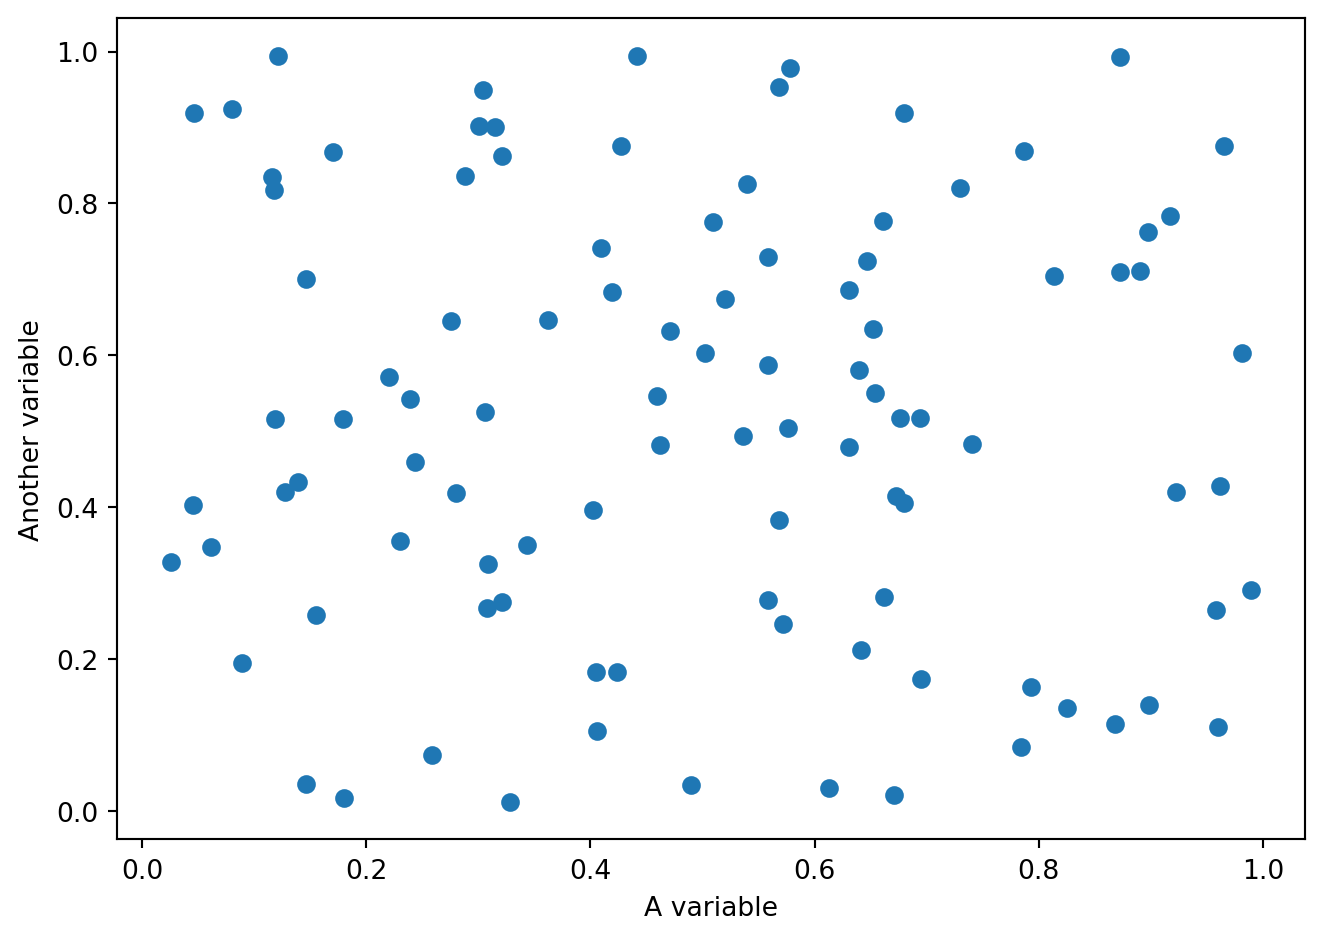
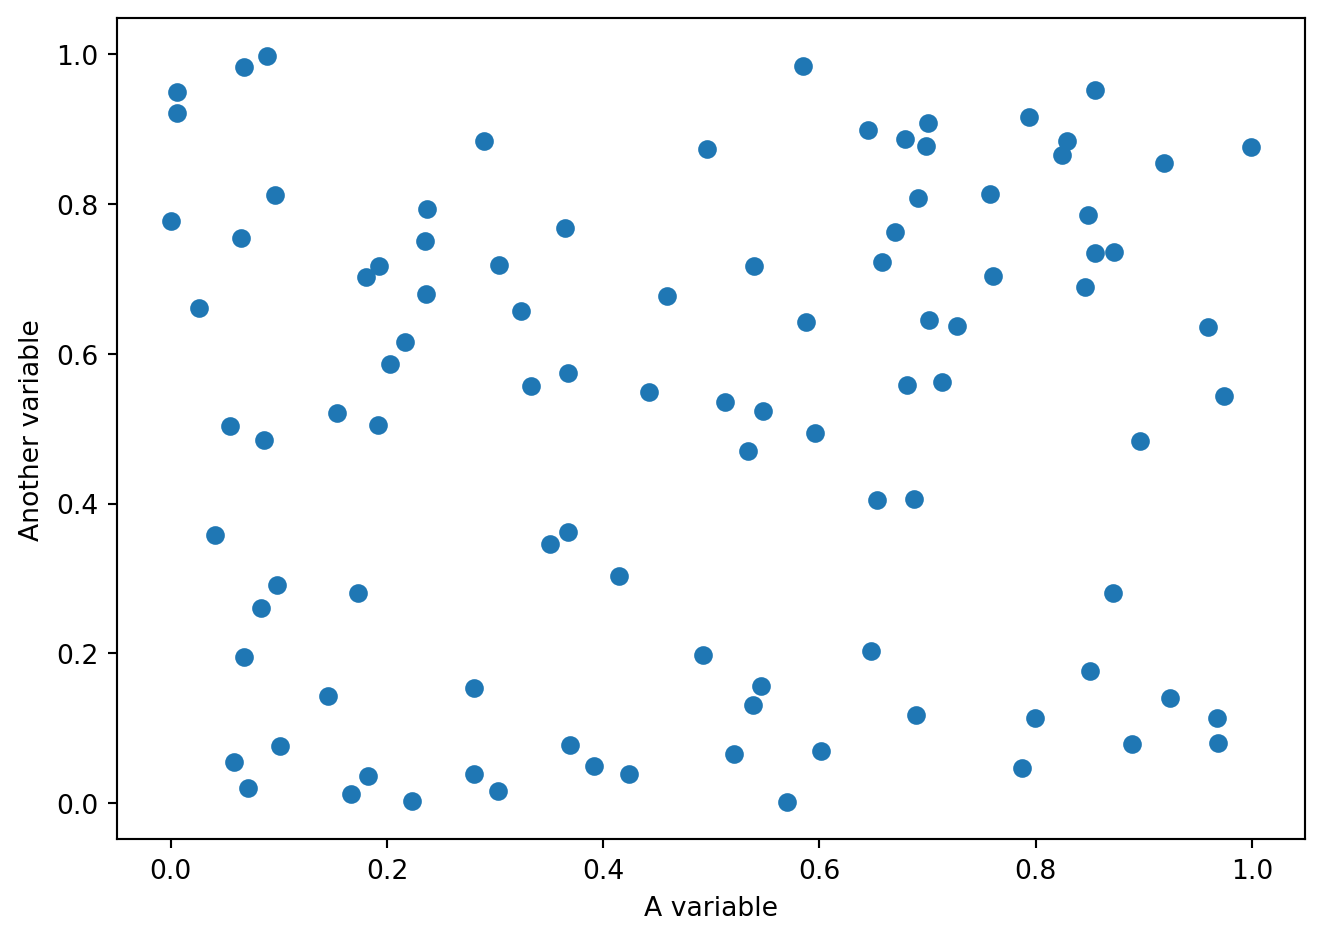
polish web interface

diff --git a/docs/experimental/Example_python.html b/docs/experimental/Example_python.html
@@ -7,7 +7,7 @@
 <meta name="viewport" content="width=device-width, initial-scale=1.0, user-scalable=yes">
 
 
-<title>Experimental notebook</title>
+<title>Experimental notebook – The Virtual Ecosystem data science repository</title>
 <style>
 /* Default styles provided by pandoc.
 ** See https://pandoc.org/MANUAL.html#variables-for-html for config info.
@@ -20,7 +20,7 @@ div.hanging-indent{margin-left: 1.5em; text-indent: -1.5em;}
 ul.task-list{list-style: none;}
 ul.task-list li input[type="checkbox"] {
   width: 0.8em;
-  margin: 0 0.8em 0.2em -1em; /* quarto-specific, see https://github.com/quarto-dev/quarto-cli/issues/4556 */
+  margin: 0 0.8em 0.2em -1em; /* quarto-specific, see https://github.com/quarto-dev/quarto-cli/issues/4556 */ 
   vertical-align: middle;
 }
 /* CSS for syntax highlighting */
@@ -62,6 +62,7 @@ pre > code.sourceCode > span > a:first-child::before { text-decoration: underlin
 
 
 <script src="../site_libs/quarto-nav/quarto-nav.js"></script>
+<script src="../site_libs/quarto-nav/headroom.min.js"></script>
 <script src="../site_libs/clipboard/clipboard.min.js"></script>
 <script src="../site_libs/quarto-search/autocomplete.umd.js"></script>
 <script src="../site_libs/quarto-search/fuse.min.js"></script>
@@ -76,13 +77,13 @@ pre > code.sourceCode > span > a:first-child::before { text-decoration: underlin
 <link href="../site_libs/quarto-html/quarto-syntax-highlighting-7f8f88aac4f3542376d5c11b86a4c14d.css" rel="stylesheet" id="quarto-text-highlighting-styles">
 <script src="../site_libs/bootstrap/bootstrap.min.js"></script>
 <link href="../site_libs/bootstrap/bootstrap-icons.css" rel="stylesheet">
-<link href="../site_libs/bootstrap/bootstrap-ece42c8223ec2bf36298a08f122c9a68.min.css" rel="stylesheet" append-hash="true" id="quarto-bootstrap" data-mode="light">
+<link href="../site_libs/bootstrap/bootstrap-ff38ca5759cea8d2b4e40dc1c167d4da.min.css" rel="stylesheet" append-hash="true" id="quarto-bootstrap" data-mode="light">
 <script id="quarto-search-options" type="application/json">{
-  "location": "sidebar",
+  "location": "navbar",
   "copy-button": false,
   "collapse-after": 3,
-  "panel-placement": "start",
-  "type": "textbox",
+  "panel-placement": "end",
+  "type": "overlay",
   "limit": 50,
   "keyboard-shortcut": [
     "f",
@@ -114,14 +115,54 @@ pre > code.sourceCode > span > a:first-child::before { text-decoration: underlin
 
 </head>
 
-<body class="fullcontent quarto-light">
+<body class="nav-fixed fullcontent quarto-light">
 
 <div id="quarto-search-results"></div>
+  <header id="quarto-header" class="headroom fixed-top">
+    <nav class="navbar navbar-expand-lg " data-bs-theme="dark">
+      <div class="navbar-container container-fluid">
+      <div class="navbar-brand-container mx-auto">
+    <a class="navbar-brand" href="../index.html">
+    <span class="navbar-title">The Virtual Ecosystem data science repository</span>
+    </a>
+  </div>
+            <div id="quarto-search" class="" title="Search"></div>
+          <button class="navbar-toggler" type="button" data-bs-toggle="collapse" data-bs-target="#navbarCollapse" aria-controls="navbarCollapse" role="menu" aria-expanded="false" aria-label="Toggle navigation" onclick="if (window.quartoToggleHeadroom) { window.quartoToggleHeadroom(); }">
+  <span class="navbar-toggler-icon"></span>
+</button>
+          <div class="collapse navbar-collapse" id="navbarCollapse">
+            <ul class="navbar-nav navbar-nav-scroll me-auto">
+  <li class="nav-item">
+    <a class="nav-link" href="../index.md"> 
+<span class="menu-text">Home</span></a>
+  </li>  
+</ul>
+          </div> <!-- /navcollapse -->
+            <div class="quarto-navbar-tools">
+    <div class="dropdown">
+      <a href="" title="" id="quarto-navigation-tool-dropdown-0" class="quarto-navigation-tool dropdown-toggle px-1" data-bs-toggle="dropdown" aria-expanded="false" role="link" aria-label=""><i class="bi bi-github"></i></a>
+      <ul class="dropdown-menu" aria-labelledby="quarto-navigation-tool-dropdown-0">
+          <li>
+            <a class="dropdown-item quarto-navbar-tools-item" href="https://github.com/ImperialCollegeLondon/ve_data_science">
+            Source code
+            </a>
+          </li>
+          <li>
+            <a class="dropdown-item quarto-navbar-tools-item" href="https://github.com/ImperialCollegeLondon/ve_data_science/issues">
+            Report an issue
+            </a>
+          </li>
+      </ul>
+    </div>
+</div>
+      </div> <!-- /container-fluid -->
+    </nav>
+</header>
 <!-- content -->
-<div id="quarto-content" class="quarto-container page-columns page-rows-contents page-layout-article">
+<div id="quarto-content" class="quarto-container page-columns page-rows-contents page-layout-article page-navbar">
 <!-- sidebar -->
 <!-- margin-sidebar -->
-
+    
 <!-- main -->
 <main class="content" id="quarto-document-content">
 
@@ -134,24 +175,24 @@ pre > code.sourceCode > span > a:first-child::before { text-decoration: underlin
 
 <div class="quarto-title-meta">
 
-
-
-
+    
+  
+    
   </div>
-
+  
 
 
 </header>
 
 
 <p>This is an experimental notebook</p>
-<div id="48dfe979" class="cell" data-execution_count="1">
+<div id="1089b03f" class="cell" data-execution_count="1">
 <div class="code-copy-outer-scaffold"><div class="sourceCode cell-code" id="cb1"><pre class="sourceCode python code-with-copy"><code class="sourceCode python"><span id="cb1-1"><a href="#cb1-1" aria-hidden="true" tabindex="-1"></a><span class="co"># This is a code cell</span></span>
 <span id="cb1-2"><a href="#cb1-2" aria-hidden="true" tabindex="-1"></a><span class="im">import</span> matplotlib.pyplot <span class="im">as</span> plt</span>
 <span id="cb1-3"><a href="#cb1-3" aria-hidden="true" tabindex="-1"></a><span class="im">import</span> numpy <span class="im">as</span> np</span></code></pre></div><button title="Copy to Clipboard" class="code-copy-button"><i class="bi"></i></button></div>
 </div>
 <p>We’re going to do some stuff</p>
-<div id="1f8ba87b" class="cell" data-execution_count="2">
+<div id="54ecc56e" class="cell" data-execution_count="2">
 <div class="code-copy-outer-scaffold"><div class="sourceCode cell-code" id="cb2"><pre class="sourceCode python code-with-copy"><code class="sourceCode python"><span id="cb2-1"><a href="#cb2-1" aria-hidden="true" tabindex="-1"></a>x <span class="op">=</span> np.random.uniform(size<span class="op">=</span><span class="dv">100</span>)</span>
 <span id="cb2-2"><a href="#cb2-2" aria-hidden="true" tabindex="-1"></a>y <span class="op">=</span> np.random.uniform(size<span class="op">=</span><span class="dv">100</span>)</span>
 <span id="cb2-3"><a href="#cb2-3" aria-hidden="true" tabindex="-1"></a></span>
@@ -182,7 +223,7 @@ pre > code.sourceCode > span > a:first-child::before { text-decoration: underlin
     anchorJS.add('.anchored');
     const isCodeAnnotation = (el) => {
       for (const clz of el.classList) {
-        if (clz.startsWith('code-annotation-')) {
+        if (clz.startsWith('code-annotation-')) {                     
           return true;
         }
       }
@@ -202,11 +243,11 @@ pre > code.sourceCode > span > a:first-child::before { text-decoration: underlin
         button.setAttribute("data-bs-toggle", "tooltip");
         button.setAttribute("data-bs-placement", "left");
         button.setAttribute("data-bs-title", "Copied!");
-        tooltip = new bootstrap.Tooltip(button,
-          { trigger: "manual",
+        tooltip = new bootstrap.Tooltip(button, 
+          { trigger: "manual", 
             customClass: "code-copy-button-tooltip",
             offset: [0, -8]});
-        tooltip.show();
+        tooltip.show();    
       }
       setTimeout(function() {
         if (tooltip) {
@@ -283,7 +324,7 @@ pre > code.sourceCode > span > a:first-child::before { text-decoration: underlin
       if (onUntriggerFn) {
         config.onUntrigger = onUntriggerFn;
       }
-      window.tippy(el, config);
+      window.tippy(el, config); 
     }
     const noterefs = window.document.querySelectorAll('a[role="doc-noteref"]');
     for (var i=0; i<noterefs.length; i++) {
@@ -358,7 +399,7 @@ pre > code.sourceCode > span > a:first-child::before { text-decoration: underlin
       tippyHover(xref, undefined, function(instance) {
         instance.disable();
         let url = xref.getAttribute('href');
-        let hash = undefined;
+        let hash = undefined; 
         if (url.startsWith('#')) {
           hash = url;
         } else {
@@ -386,7 +427,7 @@ pre > code.sourceCode > span > a:first-child::before { text-decoration: underlin
               if (note !== null) {
                 const html = processXRef(id, note);
                 instance.setContent(html);
-              }
+              } 
             }).finally(() => {
               instance.enable();
               instance.show();
@@ -410,7 +451,7 @@ pre > code.sourceCode > span > a:first-child::before { text-decoration: underlin
               }
               const html = processXRef(null, note);
               instance.setContent(html);
-            }
+            } 
           }).finally(() => {
             instance.enable();
             instance.show();
@@ -450,7 +491,7 @@ pre > code.sourceCode > span > a:first-child::before { text-decoration: underlin
               height = bottom - top;
             }
             if (top !== null && height !== null && parent !== null) {
-              // cook up a div (if necessary) and position it
+              // cook up a div (if necessary) and position it 
               let div = window.document.getElementById("code-annotation-line-highlight");
               if (div === null) {
                 div = window.document.createElement("div");

diff --git a/docs/experimental/Example_R.html b/docs/experimental/Example_R.html
@@ -7,7 +7,7 @@
 <meta name="viewport" content="width=device-width, initial-scale=1.0, user-scalable=yes">
 
 
-<title>Experimental notebook</title>
+<title>Experimental notebook – The Virtual Ecosystem data science repository</title>
 <style>
 /* Default styles provided by pandoc.
 ** See https://pandoc.org/MANUAL.html#variables-for-html for config info.
@@ -20,7 +20,7 @@ div.hanging-indent{margin-left: 1.5em; text-indent: -1.5em;}
 ul.task-list{list-style: none;}
 ul.task-list li input[type="checkbox"] {
   width: 0.8em;
-  margin: 0 0.8em 0.2em -1em; /* quarto-specific, see https://github.com/quarto-dev/quarto-cli/issues/4556 */
+  margin: 0 0.8em 0.2em -1em; /* quarto-specific, see https://github.com/quarto-dev/quarto-cli/issues/4556 */ 
   vertical-align: middle;
 }
 /* CSS for syntax highlighting */
@@ -62,6 +62,7 @@ pre > code.sourceCode > span > a:first-child::before { text-decoration: underlin
 
 
 <script src="../site_libs/quarto-nav/quarto-nav.js"></script>
+<script src="../site_libs/quarto-nav/headroom.min.js"></script>
 <script src="../site_libs/clipboard/clipboard.min.js"></script>
 <script src="../site_libs/quarto-search/autocomplete.umd.js"></script>
 <script src="../site_libs/quarto-search/fuse.min.js"></script>
@@ -76,13 +77,13 @@ pre > code.sourceCode > span > a:first-child::before { text-decoration: underlin
 <link href="../site_libs/quarto-html/quarto-syntax-highlighting-7f8f88aac4f3542376d5c11b86a4c14d.css" rel="stylesheet" id="quarto-text-highlighting-styles">
 <script src="../site_libs/bootstrap/bootstrap.min.js"></script>
 <link href="../site_libs/bootstrap/bootstrap-icons.css" rel="stylesheet">
-<link href="../site_libs/bootstrap/bootstrap-ece42c8223ec2bf36298a08f122c9a68.min.css" rel="stylesheet" append-hash="true" id="quarto-bootstrap" data-mode="light">
+<link href="../site_libs/bootstrap/bootstrap-ff38ca5759cea8d2b4e40dc1c167d4da.min.css" rel="stylesheet" append-hash="true" id="quarto-bootstrap" data-mode="light">
 <script id="quarto-search-options" type="application/json">{
-  "location": "sidebar",
+  "location": "navbar",
   "copy-button": false,
   "collapse-after": 3,
-  "panel-placement": "start",
-  "type": "textbox",
+  "panel-placement": "end",
+  "type": "overlay",
   "limit": 50,
   "keyboard-shortcut": [
     "f",
@@ -114,14 +115,54 @@ pre > code.sourceCode > span > a:first-child::before { text-decoration: underlin
 
 </head>
 
-<body class="fullcontent quarto-light">
+<body class="nav-fixed fullcontent quarto-light">
 
 <div id="quarto-search-results"></div>
+  <header id="quarto-header" class="headroom fixed-top">
+    <nav class="navbar navbar-expand-lg " data-bs-theme="dark">
+      <div class="navbar-container container-fluid">
+      <div class="navbar-brand-container mx-auto">
+    <a class="navbar-brand" href="../index.html">
+    <span class="navbar-title">The Virtual Ecosystem data science repository</span>
+    </a>
+  </div>
+            <div id="quarto-search" class="" title="Search"></div>
+          <button class="navbar-toggler" type="button" data-bs-toggle="collapse" data-bs-target="#navbarCollapse" aria-controls="navbarCollapse" role="menu" aria-expanded="false" aria-label="Toggle navigation" onclick="if (window.quartoToggleHeadroom) { window.quartoToggleHeadroom(); }">
+  <span class="navbar-toggler-icon"></span>
+</button>
+          <div class="collapse navbar-collapse" id="navbarCollapse">
+            <ul class="navbar-nav navbar-nav-scroll me-auto">
+  <li class="nav-item">
+    <a class="nav-link" href="../index.md"> 
+<span class="menu-text">Home</span></a>
+  </li>  
+</ul>
+          </div> <!-- /navcollapse -->
+            <div class="quarto-navbar-tools">
+    <div class="dropdown">
+      <a href="" title="" id="quarto-navigation-tool-dropdown-0" class="quarto-navigation-tool dropdown-toggle px-1" data-bs-toggle="dropdown" aria-expanded="false" role="link" aria-label=""><i class="bi bi-github"></i></a>
+      <ul class="dropdown-menu" aria-labelledby="quarto-navigation-tool-dropdown-0">
+          <li>
+            <a class="dropdown-item quarto-navbar-tools-item" href="https://github.com/ImperialCollegeLondon/ve_data_science">
+            Source code
+            </a>
+          </li>
+          <li>
+            <a class="dropdown-item quarto-navbar-tools-item" href="https://github.com/ImperialCollegeLondon/ve_data_science/issues">
+            Report an issue
+            </a>
+          </li>
+      </ul>
+    </div>
+</div>
+      </div> <!-- /container-fluid -->
+    </nav>
+</header>
 <!-- content -->
-<div id="quarto-content" class="quarto-container page-columns page-rows-contents page-layout-article">
+<div id="quarto-content" class="quarto-container page-columns page-rows-contents page-layout-article page-navbar">
 <!-- sidebar -->
 <!-- margin-sidebar -->
-
+    
 <!-- main -->
 <main class="content" id="quarto-document-content">
 
@@ -134,11 +175,11 @@ pre > code.sourceCode > span > a:first-child::before { text-decoration: underlin
 
 <div class="quarto-title-meta">
 
-
-
-
+    
+  
+    
   </div>
-
+  
 
 
 </header>
@@ -183,7 +224,7 @@ pre > code.sourceCode > span > a:first-child::before { text-decoration: underlin
     anchorJS.add('.anchored');
     const isCodeAnnotation = (el) => {
       for (const clz of el.classList) {
-        if (clz.startsWith('code-annotation-')) {
+        if (clz.startsWith('code-annotation-')) {                     
           return true;
         }
       }
@@ -203,11 +244,11 @@ pre > code.sourceCode > span > a:first-child::before { text-decoration: underlin
         button.setAttribute("data-bs-toggle", "tooltip");
         button.setAttribute("data-bs-placement", "left");
         button.setAttribute("data-bs-title", "Copied!");
-        tooltip = new bootstrap.Tooltip(button,
-          { trigger: "manual",
+        tooltip = new bootstrap.Tooltip(button, 
+          { trigger: "manual", 
             customClass: "code-copy-button-tooltip",
             offset: [0, -8]});
-        tooltip.show();
+        tooltip.show();    
       }
       setTimeout(function() {
         if (tooltip) {
@@ -284,7 +325,7 @@ pre > code.sourceCode > span > a:first-child::before { text-decoration: underlin
       if (onUntriggerFn) {
         config.onUntrigger = onUntriggerFn;
       }
-      window.tippy(el, config);
+      window.tippy(el, config); 
     }
     const noterefs = window.document.querySelectorAll('a[role="doc-noteref"]');
     for (var i=0; i<noterefs.length; i++) {
@@ -359,7 +400,7 @@ pre > code.sourceCode > span > a:first-child::before { text-decoration: underlin
       tippyHover(xref, undefined, function(instance) {
         instance.disable();
         let url = xref.getAttribute('href');
-        let hash = undefined;
+        let hash = undefined; 
         if (url.startsWith('#')) {
           hash = url;
         } else {
@@ -387,7 +428,7 @@ pre > code.sourceCode > span > a:first-child::before { text-decoration: underlin
               if (note !== null) {
                 const html = processXRef(id, note);
                 instance.setContent(html);
-              }
+              } 
             }).finally(() => {
               instance.enable();
               instance.show();
@@ -411,7 +452,7 @@ pre > code.sourceCode > span > a:first-child::before { text-decoration: underlin
               }
               const html = processXRef(null, note);
               instance.setContent(html);
-            }
+            } 
           }).finally(() => {
             instance.enable();
             instance.show();
@@ -451,7 +492,7 @@ pre > code.sourceCode > span > a:first-child::before { text-decoration: underlin
               height = bottom - top;
             }
             if (top !== null && height !== null && parent !== null) {
-              // cook up a div (if necessary) and position it
+              // cook up a div (if necessary) and position it 
               let div = window.document.getElementById("code-annotation-line-highlight");
               if (div === null) {
                 div = window.document.createElement("div");

diff --git a/docs/site_libs/quarto-nav/headroom.min.js b/docs/site_libs/quarto-nav/headroom.min.js
@@ -1,0 +1,7 @@
+/*!
+ * headroom.js v0.12.0 - Give your page some headroom. Hide your header until you need it
+ * Copyright (c) 2020 Nick Williams - http://wicky.nillia.ms/headroom.js
+ * License: MIT
+ */
+
+!function(t,n){"object"==typeof exports&&"undefined"!=typeof module?module.exports=n():"function"==typeof define&&define.amd?define(n):(t=t||self).Headroom=n()}(this,function(){"use strict";function t(){return"undefined"!=typeof window}function d(t){return function(t){return t&&t.document&&function(t){return 9===t.nodeType}(t.document)}(t)?function(t){var n=t.document,o=n.body,s=n.documentElement;return{scrollHeight:function(){return Math.max(o.scrollHeight,s.scrollHeight,o.offsetHeight,s.offsetHeight,o.clientHeight,s.clientHeight)},height:function(){return t.innerHeight||s.clientHeight||o.clientHeight},scrollY:function(){return void 0!==t.pageYOffset?t.pageYOffset:(s||o.parentNode||o).scrollTop}}}(t):function(t){return{scrollHeight:function(){return Math.max(t.scrollHeight,t.offsetHeight,t.clientHeight)},height:function(){return Math.max(t.offsetHeight,t.clientHeight)},scrollY:function(){return t.scrollTop}}}(t)}function n(t,s,e){var n,o=function(){var n=!1;try{var t={get passive(){n=!0}};window.addEventListener("test",t,t),window.removeEventListener("test",t,t)}catch(t){n=!1}return n}(),i=!1,r=d(t),l=r.scrollY(),a={};function c(){var t=Math.round(r.scrollY()),n=r.height(),o=r.scrollHeight();a.scrollY=t,a.lastScrollY=l,a.direction=l<t?"down":"up",a.distance=Math.abs(t-l),a.isOutOfBounds=t<0||o<t+n,a.top=t<=s.offset[a.direction],a.bottom=o<=t+n,a.toleranceExceeded=a.distance>s.tolerance[a.direction],e(a),l=t,i=!1}function h(){i||(i=!0,n=requestAnimationFrame(c))}var u=!!o&&{passive:!0,capture:!1};return t.addEventListener("scroll",h,u),c(),{destroy:function(){cancelAnimationFrame(n),t.removeEventListener("scroll",h,u)}}}function o(t){return t===Object(t)?t:{down:t,up:t}}function s(t,n){n=n||{},Object.assign(this,s.options,n),this.classes=Object.assign({},s.options.classes,n.classes),this.elem=t,this.tolerance=o(this.tolerance),this.offset=o(this.offset),this.initialised=!1,this.frozen=!1}return s.prototype={constructor:s,init:function(){return s.cutsTheMustard&&!this.initialised&&(this.addClass("initial"),this.initialised=!0,setTimeout(function(t){t.scrollTracker=n(t.scroller,{offset:t.offset,tolerance:t.tolerance},t.update.bind(t))},100,this)),this},destroy:function(){this.initialised=!1,Object.keys(this.classes).forEach(this.removeClass,this),this.scrollTracker.destroy()},unpin:function(){!this.hasClass("pinned")&&this.hasClass("unpinned")||(this.addClass("unpinned"),this.removeClass("pinned"),this.onUnpin&&this.onUnpin.call(this))},pin:function(){this.hasClass("unpinned")&&(this.addClass("pinned"),this.removeClass("unpinned"),this.onPin&&this.onPin.call(this))},freeze:function(){this.frozen=!0,this.addClass("frozen")},unfreeze:function(){this.frozen=!1,this.removeClass("frozen")},top:function(){this.hasClass("top")||(this.addClass("top"),this.removeClass("notTop"),this.onTop&&this.onTop.call(this))},notTop:function(){this.hasClass("notTop")||(this.addClass("notTop"),this.removeClass("top"),this.onNotTop&&this.onNotTop.call(this))},bottom:function(){this.hasClass("bottom")||(this.addClass("bottom"),this.removeClass("notBottom"),this.onBottom&&this.onBottom.call(this))},notBottom:function(){this.hasClass("notBottom")||(this.addClass("notBottom"),this.removeClass("bottom"),this.onNotBottom&&this.onNotBottom.call(this))},shouldUnpin:function(t){return"down"===t.direction&&!t.top&&t.toleranceExceeded},shouldPin:function(t){return"up"===t.direction&&t.toleranceExceeded||t.top},addClass:function(t){this.elem.classList.add.apply(this.elem.classList,this.classes[t].split(" "))},removeClass:function(t){this.elem.classList.remove.apply(this.elem.classList,this.classes[t].split(" "))},hasClass:function(t){return this.classes[t].split(" ").every(function(t){return this.classList.contains(t)},this.elem)},update:function(t){t.isOutOfBounds||!0!==this.frozen&&(t.top?this.top():this.notTop(),t.bottom?this.bottom():this.notBottom(),this.shouldUnpin(t)?this.unpin():this.shouldPin(t)&&this.pin())}},s.options={tolerance:{up:0,down:0},offset:0,scroller:t()?window:null,classes:{frozen:"headroom--frozen",pinned:"headroom--pinned",unpinned:"headroom--unpinned",top:"headroom--top",notTop:"headroom--not-top",bottom:"headroom--bottom",notBottom:"headroom--not-bottom",initial:"headroom"}},s.cutsTheMustard=!!(t()&&function(){}.bind&&"classList"in document.documentElement&&Object.assign&&Object.keys&&requestAnimationFrame),s});